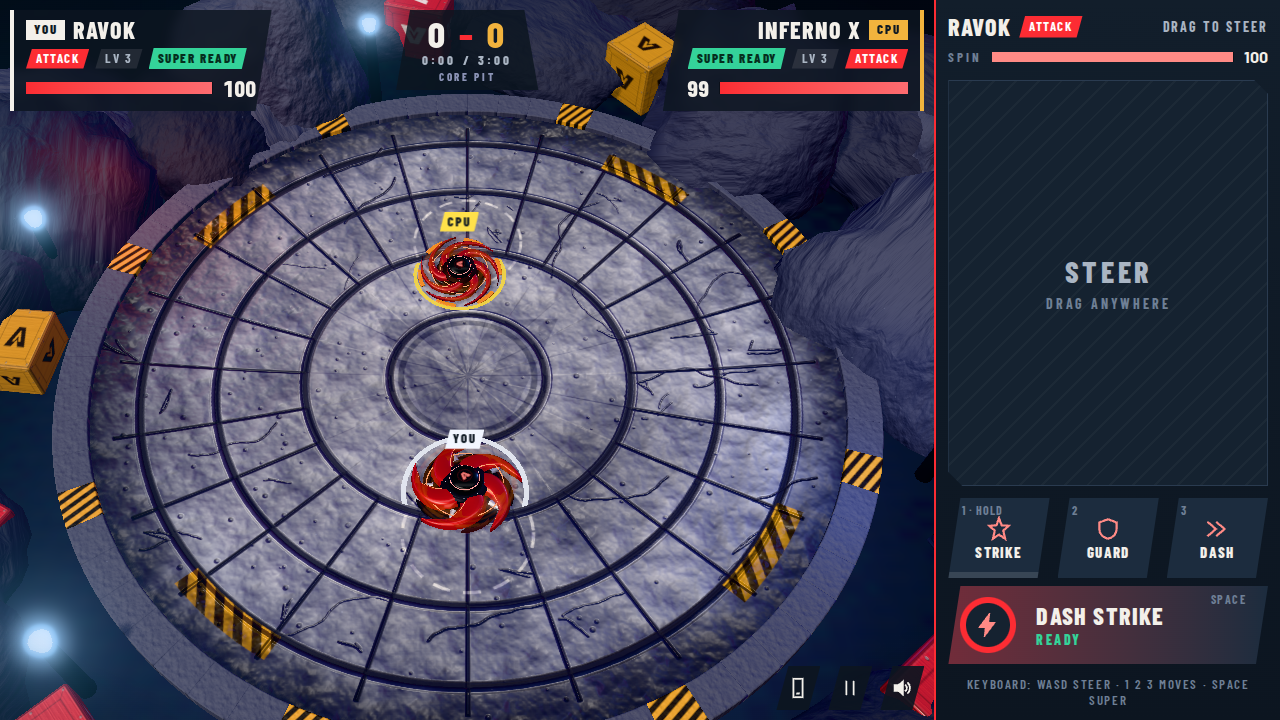
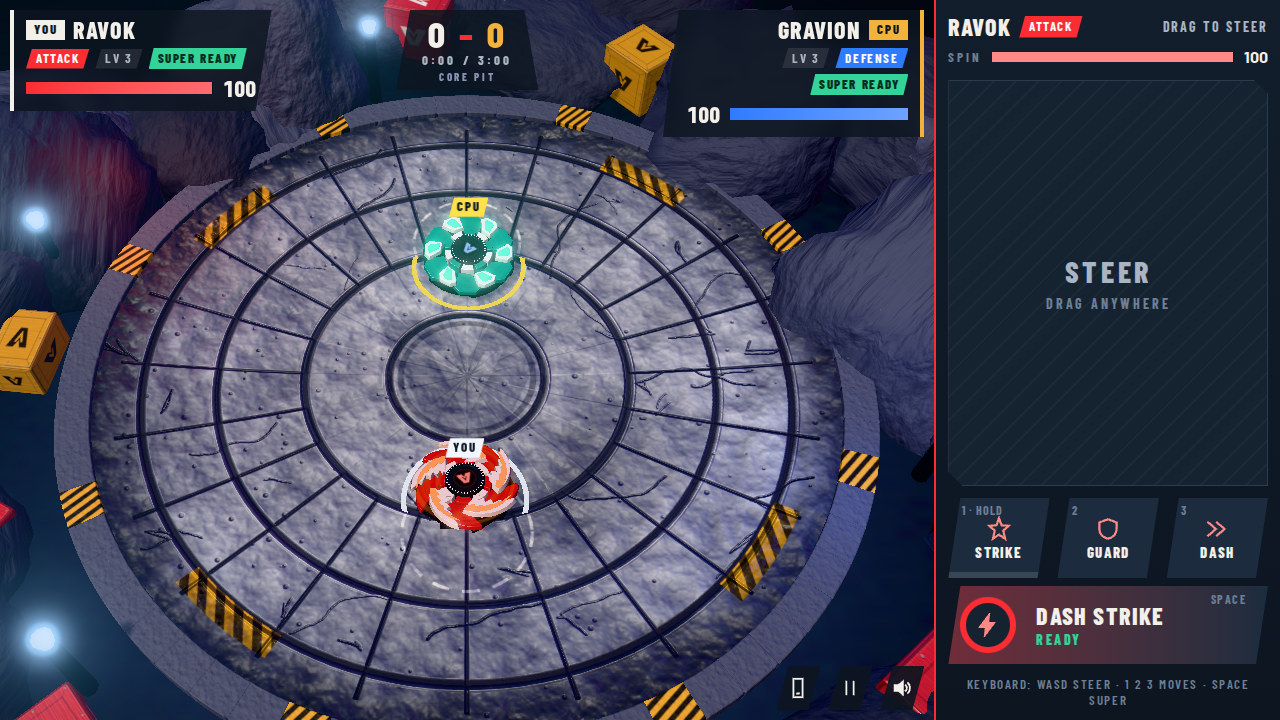
Add Bollywood Night Awards; update AI Brain (v0.7) and Spinblade Arena (Blender blades); interim audit 2026-10-29
- 009 Bollywood Night Awards: a static live-voting app from the Game-Design repo, with screenshots from its own demo
- 003 AI Brain: Recall, Library and notes
- 007 Spinblade Arena: blades remodelled in Blender, new screenshots
- audits: snapshot, project records and report section

Claude-Session: https://claude.ai/code/session_01AzdNgeSvErPZZ8PFW6E9Yw

diff --git a/README.md b/README.md
@@ -68,11 +68,11 @@ The controlled list lives in `categoryDefinitions` in [`lib/site-config.ts`](lib
 
 ### The current entries
 
-`content/experiments/` holds eight entries: Inspira 2.0, OneMoment, AI Brain, Jarvis Wallpaper, this site, RDL Theme, Spinblade Arena and the AI Playground deck. They were written from each project's own README and product docs, and from the project manifests, so the facts match the repositories. Everything except this site is marked `building` because none of the others has a confirmed public release yet. When one ships, change `status` to `live` and add `demoUrl`.
+`content/experiments/` holds nine entries: Inspira 2.0, OneMoment, AI Brain, Jarvis Wallpaper, this site, RDL Theme, Spinblade Arena, the AI Playground deck and Bollywood Night Awards. They were written from each project's own README and product docs, and from the project manifests, so the facts match the repositories. Everything except this site is marked `building` because none of the others has a confirmed public release yet. When one ships, change `status` to `live` and add `demoUrl`.
 
 **Images are currently switched off** with `showImages: false` in `lib/site-config.ts`: no cover or article image is shown or loaded, tiles become text-only and the featured entry spans the full width. Set it to `true` to bring them all back; nothing is deleted from the entry folders.
 
-The cover and detail images are schematic diagrams drawn from those documents (view names, hubs, modes, data flow, how the site is built), not screenshots, and their captions say so. RDL Theme, Spinblade Arena and the AI Playground deck use real images instead: RDL Theme's are the repository's own reference renders, and the other two are captured from the running game and deck. Swap in real screenshots for the others whenever you have them: keep the file name and update `coverAlt`. Avoid screenshots of this site on its own entry, because the home page would then show a copy of itself.
+The cover and detail images are schematic diagrams drawn from those documents (view names, hubs, modes, data flow, how the site is built), not screenshots, and their captions say so. RDL Theme, Spinblade Arena, the AI Playground deck and Bollywood Night Awards use real images instead: RDL Theme's are the repository's own reference renders, and the others are captured from the running game, deck and demo. Swap in real screenshots for the others whenever you have them: keep the file name and update `coverAlt`. Avoid screenshots of this site on its own entry, because the home page would then show a copy of itself.
 
 OneMoment lives in a private repository, so its entry has no source link and stays high-level. Check that you are comfortable with everything it says before you deploy.
 

diff --git a/audits/projects/bollywood-night-awards.md b/audits/projects/bollywood-night-awards.md
@@ -1,0 +1,37 @@
+# Bollywood Night Awards
+
+- **Status:** Building (site entry). Whether it has been used at an event, and any hosted copy, are Unknown / Needs Review.
+- **Live URL:** None found. The README says to deploy it on Vercel with the root directory set to `bollywood-vote`, and a commit sets Vercel's static preset, but no URL is documented.
+- **Repository:** https://github.com/nkchaudhary-1/Game-Design (folder `bollywood-vote`, in the same repository as Spinblade Arena)
+- **Last reviewed:** 2026-10-29
+- **Classification:** New Experiment (priority Medium)
+
+## What changed
+
+First record. Discovered in this review. Ten commits across 2026-10-28 and 2026-10-29 take it from a first voting app to a static site with a curtain reveal and a design pass.
+
+## Why it changed
+
+The README describes a Best Dressed award for a Bollywood Night: the host shares a screen on a projector and guests vote on their phones. On 29 October it moved from a hosted-first version with a live leaderboard to a static site with hidden results and no backend.
+
+## Design / UX changes
+
+Guest details first (name and character, or a pasted list), then the award page with a QR code already on screen, a 2 or 5 minute clock, names that light up as people vote, a drumroll and curtain reveal with confetti, joint winners or a 60-second tie-break, and a design pass: Rozha One and Plus Jakarta Sans, a plum, marigold and rani pink palette, aligned layouts and an optional stage backdrop.
+
+## Technical changes
+
+Plain HTML, CSS and JavaScript, no build step. The host's browser is the server: phones connect to it over WebRTC through PeerJS's public broker, and votes live in the host's `localStorage`. Voting rules are in one file with tests, and the phone link is tested against a fake PeerJS network. A script builds a click-through demo with sample guests.
+
+## Experiment insight
+
+Tests whether a live vote can run with no server, database or login, with secret scores and an honest way to handle ties.
+
+## Next opportunity
+
+Suggestions: record the event date and a hosted address; try a real run with guests and note where WebRTC fails on venue networks; write up the move from a hosted leaderboard to hidden results.
+
+## History
+
+- **2026-10-28:** First commit; voting rules extracted and a click-through demo added.
+- **2026-10-29:** Names setup, vote clock, curtain reveal and tie-break; moved to a static site; Vercel static preset; design pass.
+- **2026-10-29:** Discovered and added to the archive as entry 009.

diff --git a/audits/projects/spinblade-arena.md b/audits/projects/spinblade-arena.md
@@ -3,10 +3,12 @@
 - **Status:** Building (site entry).
 - **Live URL:** None found. It runs from a build (`npm run build:single` makes one self-contained HTML file). No hosted version linked.
 - **Repository:** https://github.com/nkchaudhary-1/Game-Design
-- **Last reviewed:** 2026-10-27
+- **Last reviewed:** 2026-10-29
 - **Classification:** Major Update (priority High)
 
 ## What changed
+
+Since the review of 2026-10-27: on 2026-10-27 the generated blade geometry was replaced by blades modelled in Blender, with a layered build for all 21, packed into one model file (Python scripts in `tools/blender`). The newest build looks chunkier and more colourful; the single-file build grew from about 6.8 MB to 9.6 MB. The site entry and screenshots were updated. A separate project, Bollywood Night Awards, now lives in the same repository (see its record).
 
 Since the review of 2026-10-19: three commits on 2026-10-20. Moves, Supers and effects were added for all 21 blades, and the Hangar of a local build reads "21 playable, 21 in roster" (it read 3 before). A realism pass changed visuals and audio only: gyroscope-style tilt and precession, 3D sparks, floor scuffs, synthesised metal sounds. Two commits are marked work in progress, covering arena mechanics and a progression core; the README does not describe them yet. Tests went from 86 to 97. The site entry was updated.
 
@@ -37,5 +39,7 @@ Suggestions: host the single-file build for a demo link; measure frame rate on a
 - **2026-10-06:** Initial version, a single-file 2D prototype, built from the PRD. Added to the archive. Baseline audit.
 - **2026-10-06 to 2026-10-11:** Rebuilt as a 3D game (v2); 2D version kept in `v1-solo/`.
 - **2026-10-20:** All 21 blades playable; realism pass on visuals and audio; arena mechanics and progression work started.
+- **2026-10-27:** Blender-modelled layered blades for all 21 blades.
 - **2026-10-27:** Interim review. Entry updated; screenshots retaken from a local build.
+- **2026-10-29:** Interim review. Entry and screenshots updated for the new blade models.
 - **2026-10-19:** Interim review. Site entry rewritten for v2 with new screenshots (captured from a local build in a software-rendered browser).

diff --git a/audits/projects/ai-brain.md b/audits/projects/ai-brain.md
@@ -3,12 +3,12 @@
 - **Status:** Building (site entry). Featured on the home page.
 - **Live URL:** Unknown / Needs Review. The repository is set up for a hosted Vercel and Supabase app, but no confirmed production URL exists. `my-ai-brain.vercel.app` appears only as an example in the docs.
 - **Repository:** https://github.com/nkchaudhary-1/Claude-AI-Brain
-- **Last reviewed:** 2026-10-06
-- **Classification:** No Change (priority Low)
+- **Last reviewed:** 2026-10-29
+- **Classification:** Major Update (priority High)
 
 ## What changed
 
-First record. The last commit (30 Sep, "Fix the memory panel's clipped corner on wide screens") is before the entry was written, and the entry already covers "learn from a link". Nothing new since.
+Version 0.7 landed on 2026-10-27 (two commits): ways to remember what you read. **Recall** shows saved sentences with one word hidden and brings them back after 1, 3, 7, 16, 35 and 90 days; the **Library** lists every article, key idea, topic and note with search and a Markdown download; and each node can carry a personal note. All free, no AI. Signed in, notes and progress save to the account; otherwise they stay in the browser. The site entry was updated. Earlier: the last commit before this (30 Sep) was before the baseline.
 
 ## Why it changed
 
@@ -34,4 +34,6 @@ Suggestions: confirm the hosted URL and set it on the entry; consider marking it
 
 - **2026-09-29 to 2026-09-30:** v0.2 to v0.6, 16 commits.
 - **2026-10-01:** Entry published (featured).
+- **2026-10-27:** v0.7: Recall, Library and notes.
 - **2026-10-06:** Baseline audit. No change.
+- **2026-10-29:** Interim review. Entry updated for v0.7.

diff --git a/audits/2026-10.md b/audits/2026-10.md
@@ -94,3 +94,13 @@ The new snapshot is `audits/snapshots/2026-10-19.json`.
 - **Pending decision:** the demo snapshots were tested but are not deployed, awaiting the owner's choice.
 
 The new snapshot is `audits/snapshots/2026-10-27.json`.
+
+## Interim update, 2026-10-29
+
+- **New:** Bollywood Night Awards (Medium), a static live-voting app that lives in the `bollywood-vote` folder of the Game-Design repository. Added as entry 009.
+- **Updated:** AI Brain (High), version 0.7 adds Recall, a Library and notes. Spinblade Arena (Medium), blades remodelled in Blender. Both entries updated.
+- **No change:** Inspira 2.0, Jarvis Wallpaper, After office hours, AI Playground deck, RDL Theme. OneMoment's default branch is unchanged; its side branches are as before.
+- **Interesting discovery:** one repository now holds two unrelated projects. "Game-Design" is the repository for Spinblade Arena and for the Bollywood vote app.
+- **Needs review:** `portfoliov4` (private, pushed 27 Oct) is still unreadable.
+
+The new snapshot is `audits/snapshots/2026-10-29.json`.
